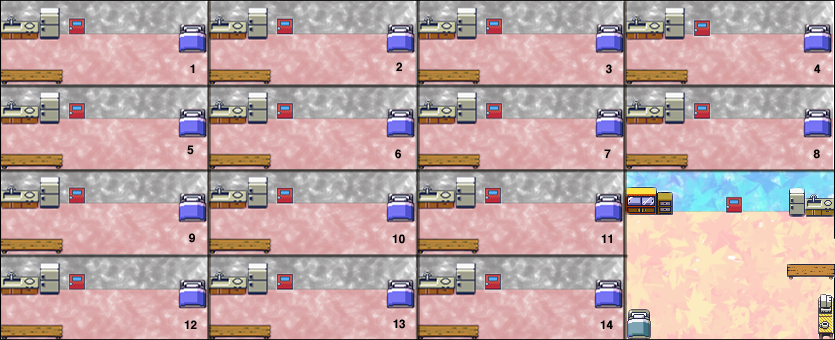
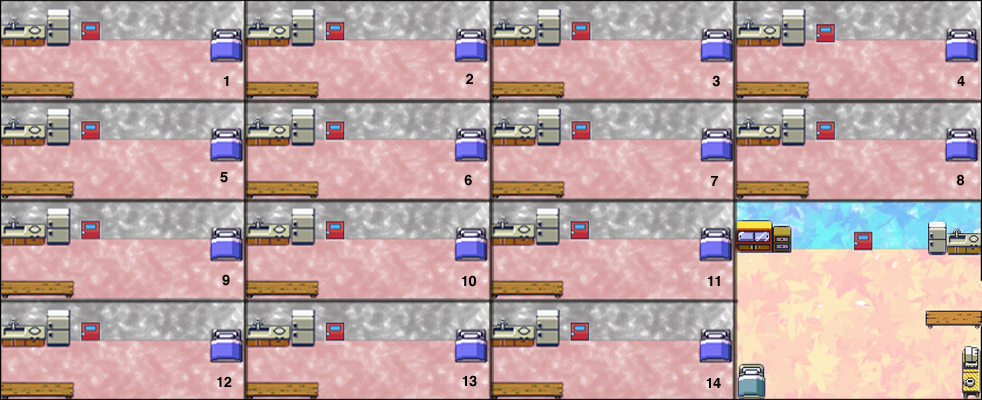
Apartment now fits micropanel

diff --git a/src/city/PersonAgent.java b/src/city/PersonAgent.java
@@ -145,13 +145,13 @@ public class PersonAgent extends Agent implements Person {
 		personGui = new PersonGui(this);
 		List<Building> buildings = Directory.sharedInstance().getCityGui().getMacroAnimationPanel().getBuildings();
 		for(Building b : buildings) {
-			if(homeName.toLowerCase().contains("apartmenta")){
+			if(homeName.toLowerCase().contains("apartmenta") || homeName.toLowerCase().contains("landlorda")) {
 				homeName = "ApartmentA";
 			}
-			else if(homeName.toLowerCase().contains("apartmentb")) {
+			else if(homeName.toLowerCase().contains("apartmentb") || homeName.toLowerCase().contains("landlordb")) {
 				homeName = "ApartmentB";
 			}
-			else if(homeName.toLowerCase().contains("apartmentc")) {
+			else if(homeName.toLowerCase().contains("apartmentc") || homeName.toLowerCase().contains("landlordc")) {
 				homeName = "ApartmentC";
 			}
 			if (b.getName() == homeName) {
@@ -252,13 +252,13 @@ public class PersonAgent extends Agent implements Person {
 		currentLocation = housingStatus;
 		List<Building> buildings = Directory.sharedInstance().getCityGui().getMacroAnimationPanel().getBuildings();
 		for(Building b : buildings) {
-			if(homeName.toLowerCase().contains("apartmenta")){
+			if(homeName.toLowerCase().contains("apartmenta") || homeName.toLowerCase().contains("landlorda")) {
 				homeName = "ApartmentA";
 			}
-			else if(homeName.toLowerCase().contains("apartmentb")) {
+			else if(homeName.toLowerCase().contains("apartmentb") || homeName.toLowerCase().contains("landlordb")) {
 				homeName = "ApartmentB";
 			}
-			else if(homeName.toLowerCase().contains("apartmentc")) {
+			else if(homeName.toLowerCase().contains("apartmentc") || homeName.toLowerCase().contains("landlordc")) {
 				homeName = "ApartmentC";
 			}
 			
@@ -459,12 +459,15 @@ public class PersonAgent extends Agent implements Person {
 	 * Scheduler.  Determine what action is called for, and do it. -------------------------------------------------------
 	 */
 	public boolean pickAndExecuteAnAction() {
-		if(currentLocation.toLowerCase().contains("apartmenta"))
+		if(currentLocation.toLowerCase().contains("apartmenta") || currentLocation.toLowerCase().contains("landlorda")) {
 			currentLocation = "ApartmentA";
-		if(currentLocation.toLowerCase().contains("apartmentb"))
+		}
+		else if(currentLocation.toLowerCase().contains("apartmentb") || currentLocation.toLowerCase().contains("landlordb")) {
 			currentLocation = "ApartmentB";
-		if(currentLocation.toLowerCase().contains("apartmentc"))
+		}
+		else if(currentLocation.toLowerCase().contains("apartmentc") || currentLocation.toLowerCase().contains("landlordc")) {
 			currentLocation = "ApartmentC";
+		}
 		
 		if (getPersonState() == PersonState.DoneWorking) {
 			leaveWork();
@@ -551,12 +554,15 @@ public class PersonAgent extends Agent implements Person {
 	 * 
 	 */
 	private boolean evaluateStatus() {
-		if(currentLocation.toLowerCase().contains("apartmenta"))
+		if(currentLocation.toLowerCase().contains("apartmenta") || currentLocation.toLowerCase().contains("landlorda")) {
 			currentLocation = "ApartmentA";
-		if(currentLocation.toLowerCase().contains("apartmentb"))
+		}
+		else if(currentLocation.toLowerCase().contains("apartmentb") || currentLocation.toLowerCase().contains("landlordb")) {
 			currentLocation = "ApartmentB";
-		if(currentLocation.toLowerCase().contains("apartmentc"))
+		}
+		else if(currentLocation.toLowerCase().contains("apartmentc") || currentLocation.toLowerCase().contains("landlordc")) {
 			currentLocation = "ApartmentC";
+		}
 		
 		//print("In Eval: Current Location = " + currentLocation + ".");
 		if (getPersonState().toString().contains("ing") || getPersonState().toString().contains("OutTo") || getPersonState().toString().contains("NeedsTo")){
@@ -637,22 +643,22 @@ public class PersonAgent extends Agent implements Person {
 		print("Action goHome - State set to InTransit. Adding new Transportation Role.");
 		setPersonState(PersonState.InTransit);
 		roles.clear();
-		if(homeName.toLowerCase().contains("apartmenta")) {
+		if(homeName.toLowerCase().contains("apartmenta") || homeName.toLowerCase().contains("landlorda")) {
 			homeName = "ApartmentA";
 		}
-		else if(homeName.toLowerCase().contains("apartmentb")) {
+		else if(homeName.toLowerCase().contains("apartmentb") || homeName.toLowerCase().contains("landlordb")) {
 			homeName = "ApartmentB";
 		}
-		else if(homeName.toLowerCase().contains("apartmentc")) {
+		else if(homeName.toLowerCase().contains("apartmentc") || homeName.toLowerCase().contains("landlordc")) {
 			homeName = "ApartmentC";
 		}
-		if(homeName.toLowerCase().contains("apartmenta")) {
+		if(currentLocation.toLowerCase().contains("apartmenta") || currentLocation.toLowerCase().contains("landlorda")) {
 			currentLocation = "ApartmentA";
 		}
-		else if(homeName.toLowerCase().contains("apartmentb")) {
+		else if(currentLocation.toLowerCase().contains("apartmentb") || currentLocation.toLowerCase().contains("landlordb")) {
 			currentLocation = "ApartmentB";
 		}
-		else if(homeName.toLowerCase().contains("apartmentc")) {
+		else if(currentLocation.toLowerCase().contains("apartmentc") || currentLocation.toLowerCase().contains("landlordc")) {
 			currentLocation = "ApartmentC";
 		}
 		
@@ -696,12 +702,15 @@ public class PersonAgent extends Agent implements Person {
 		//Decide Which restaurant to go to
 		Restaurant r = Directory.sharedInstance().getRestaurants().get(1);
 		//End of Decide block
-		if(currentLocation.toLowerCase().contains("apartmenta"))
+		if(currentLocation.toLowerCase().contains("apartmenta") || currentLocation.toLowerCase().contains("landlorda")) {
 			currentLocation = "ApartmentA";
-		if(currentLocation.toLowerCase().contains("apartmentb"))
+		}
+		else if(currentLocation.toLowerCase().contains("apartmentb") || currentLocation.toLowerCase().contains("landlordb")) {
 			currentLocation = "ApartmentB";
-		if(currentLocation.toLowerCase().contains("apartmentc"))
+		}
+		else if(currentLocation.toLowerCase().contains("apartmentc") || currentLocation.toLowerCase().contains("landlordc")) {
 			currentLocation = "ApartmentC";
+		}
 		
 		if(currentLocation == homeName) {
 			personGui.DoLeaveHouse();
@@ -758,12 +767,15 @@ public class PersonAgent extends Agent implements Person {
 		hasWorked = true;
 		setPersonState(PersonState.OutToWork);
 		
-		if(currentLocation.toLowerCase().contains("apartmenta"))
+		if(currentLocation.toLowerCase().contains("apartmenta") || currentLocation.toLowerCase().contains("landlorda")) {
 			currentLocation = "ApartmentA";
-		if(currentLocation.toLowerCase().contains("apartmentb"))
+		}
+		else if(currentLocation.toLowerCase().contains("apartmentb") || currentLocation.toLowerCase().contains("landlordb")) {
 			currentLocation = "ApartmentB";
-		if(currentLocation.toLowerCase().contains("apartmentc"))
+		}
+		else if(currentLocation.toLowerCase().contains("apartmentc") || currentLocation.toLowerCase().contains("landlordc")) {
 			currentLocation = "ApartmentC";
+		}
 		
 		if(currentLocation == homeName) {
 			personGui.DoLeaveHouse();
@@ -800,12 +812,15 @@ public class PersonAgent extends Agent implements Person {
 			print("Action goMarket - State set to OutToMarket");
 			setPersonState(PersonState.OutToMarket);
 			
-			if(currentLocation.toLowerCase().contains("apartmenta"))
+			if(currentLocation.toLowerCase().contains("apartmenta") || currentLocation.toLowerCase().contains("landlorda")) {
 				currentLocation = "ApartmentA";
-			if(currentLocation.toLowerCase().contains("apartmentb"))
+			}
+			else if(currentLocation.toLowerCase().contains("apartmentb") || currentLocation.toLowerCase().contains("landlordb")) {
 				currentLocation = "ApartmentB";
-			if(currentLocation.toLowerCase().contains("apartmentc"))
+			}
+			else if(currentLocation.toLowerCase().contains("apartmentc") || currentLocation.toLowerCase().contains("landlordc")) {
 				currentLocation = "ApartmentC";
+			}
 			
 			if(currentLocation == homeName) {
 				personGui.DoLeaveHouse();
@@ -824,12 +839,15 @@ public class PersonAgent extends Agent implements Person {
 	}
 	/** Non Norm Actions **/
 	private void goRob() {
-		if(currentLocation.toLowerCase().contains("apartmenta"))
+		if(currentLocation.toLowerCase().contains("apartmenta") || currentLocation.toLowerCase().contains("landlorda")) {
 			currentLocation = "ApartmentA";
-		if(currentLocation.toLowerCase().contains("apartmentb"))
+		}
+		else if(currentLocation.toLowerCase().contains("apartmentb") || currentLocation.toLowerCase().contains("landlordb")) {
 			currentLocation = "ApartmentB";
-		if(currentLocation.toLowerCase().contains("apartmentc"))
+		}
+		else if(currentLocation.toLowerCase().contains("apartmentc") || currentLocation.toLowerCase().contains("landlordc")) {
 			currentLocation = "ApartmentC";
+		}
 		
 		if(currentLocation == homeName) {
 			personGui.DoLeaveHouse();
@@ -858,12 +876,15 @@ public class PersonAgent extends Agent implements Person {
 			deposit = 0.0;
 		}
 		
-		if(currentLocation.toLowerCase().contains("apartmenta"))
+		if(currentLocation.toLowerCase().contains("apartmenta") || currentLocation.toLowerCase().contains("landlorda")) {
 			currentLocation = "ApartmentA";
-		if(currentLocation.toLowerCase().contains("apartmentb"))
+		}
+		else if(currentLocation.toLowerCase().contains("apartmentb") || currentLocation.toLowerCase().contains("landlordb")) {
 			currentLocation = "ApartmentB";
-		if(currentLocation.toLowerCase().contains("apartmentc"))
+		}
+		else if(currentLocation.toLowerCase().contains("apartmentc") || currentLocation.toLowerCase().contains("landlordc")) {
 			currentLocation = "ApartmentC";
+		}
 		
 		if(currentLocation == homeName) {
 			personGui.DoLeaveHouse();
@@ -884,12 +905,15 @@ public class PersonAgent extends Agent implements Person {
 		setPersonState(PersonState.OutToBank);
 	}
 	private void goLoan() {
-		if(currentLocation.toLowerCase().contains("apartmenta"))
+		if(currentLocation.toLowerCase().contains("apartmenta") || currentLocation.toLowerCase().contains("landlorda")) {
 			currentLocation = "ApartmentA";
-		if(currentLocation.toLowerCase().contains("apartmentb"))
+		}
+		else if(currentLocation.toLowerCase().contains("apartmentb") || currentLocation.toLowerCase().contains("landlordb")) {
 			currentLocation = "ApartmentB";
-		if(currentLocation.toLowerCase().contains("apartmentc"))
+		}
+		else if(currentLocation.toLowerCase().contains("apartmentc") || currentLocation.toLowerCase().contains("landlordc")) {
 			currentLocation = "ApartmentC";
+		}
 		
 		if(currentLocation == homeName) {
 			personGui.DoLeaveHouse();
@@ -912,12 +936,15 @@ public class PersonAgent extends Agent implements Person {
 	}
 	
 	private void goWithdraw() {
-		if(currentLocation.toLowerCase().contains("apartmenta"))
+		if(currentLocation.toLowerCase().contains("apartmenta") || currentLocation.toLowerCase().contains("landlorda")) {
 			currentLocation = "ApartmentA";
-		if(currentLocation.toLowerCase().contains("apartmentb"))
+		}
+		else if(currentLocation.toLowerCase().contains("apartmentb") || currentLocation.toLowerCase().contains("landlordb")) {
 			currentLocation = "ApartmentB";
-		if(currentLocation.toLowerCase().contains("apartmentc"))
+		}
+		else if(currentLocation.toLowerCase().contains("apartmentc") || currentLocation.toLowerCase().contains("landlordc")) {
 			currentLocation = "ApartmentC";
+		}
 		
 		if(currentLocation == homeName) {
 			personGui.DoLeaveHouse();

diff --git a/src/gui/SimCityGui.java b/src/gui/SimCityGui.java
@@ -11,6 +11,7 @@ import city.BusAgent;
 import city.PersonAgent;
 import city.TransportationRole;
 import city.gui.BusGui;
+import city.helpers.ApartmentHelper;
 import city.helpers.Clock;
 import city.helpers.Directory;
 import city.helpers.XMLReader;
@@ -432,28 +433,20 @@ public class SimCityGui {
                     transportationComboBox.getSelectedItem() != "None" &&
                     housingComboBox.getSelectedItem() != "None") {
 					
-					/*
 					//CREATE CONDITION WHERE IFF HOUSING COMBO BOX IS LANDLORD THEN JOB IS LAND LORD AND VICE VERSA
 					if(housingComboBox.getSelectedItem().toString().toLowerCase().contains("landlord")) {
-						String string = housingComboBox.getSelectedItem().toString();
-						String [] parts = string.split("LandLord");
-						String part2 = parts[1];
+						String apartmentLetter = ApartmentHelper.sharedInstance().getApartmentLetter(housingComboBox.getSelectedItem());
 						
-						System.out.println(housingComboBox.getSelectedItem().toString());
-						System.out.println(part2);
-						
-						
-						PersonAgent person = new PersonAgent(roles.get("home.LandLord" + part2),
+						PersonAgent person = new PersonAgent(roles.get("home.LandLord" + apartmentLetter),
                                 nameTextField.getText(),
                                 aggressivenessSlider.getValue(),
                                 (double)initialFundsSlider.getValue(),
                                 (String)housingComboBox.getSelectedItem(),
                                 (String)transportationComboBox.getSelectedItem());
+						
+						housingComboBox.removeItemAt(housingComboBox.getSelectedIndex());
 					}
 					else {
-					*/
-					//housingComboBox.removeItemAt(housingComboBox.getSelectedIndex());
-					
 						PersonAgent person = new PersonAgent(roles.get(occupationComboBox.getSelectedItem()),
                                 nameTextField.getText(),
                                 aggressivenessSlider.getValue(),
@@ -463,7 +456,7 @@ public class SimCityGui {
 						
 						
 						housingComboBox.removeItemAt(housingComboBox.getSelectedIndex());
-					//}
+					}
 						
 				}
 			}

diff --git a/src/city/gui/PersonGui.java b/src/city/gui/PersonGui.java
@@ -39,8 +39,8 @@ public class PersonGui implements Gui {
 		String address = agent.getAddress();
 		
 		apartmentLetter = ApartmentHelper.sharedInstance().getApartmentLetter(address);
-		xMult = ApartmentHelper.sharedInstance().getXMultiplier(address) * 212;
-		yMult = ApartmentHelper.sharedInstance().getYMultiplier(address) * 96;
+		xMult = ApartmentHelper.sharedInstance().getXMultiplier(address) * 245;
+		yMult = ApartmentHelper.sharedInstance().getYMultiplier(address) * 103;
 		
 		//HOME
 		if(address.toLowerCase().contains("house")) {
@@ -70,16 +70,39 @@ public class PersonGui implements Gui {
 	        }
 		}
 		//APARTMENT
-		else if(address.toLowerCase().contains("apartment")) {
+		else if(address.toLowerCase().contains("apartment")) {		
+			xBed = 219 + xMult;
+			yBed = 35 + yMult;
+			xKitchen = 14 + xMult;
+			yKitchen = 25 + yMult;
+			xTable = 23 + xMult;
+			yTable = 74 + yMult;
+			xDoor = 87 + xMult;
+			yDoor = 26 + yMult;
+			xPos = xBed;
+			yPos = yBed;
+			xDestination = xBed;
+			yDestination = yBed;
 			
-			xBed = 184 + xMult;
-			yBed = 29 + yMult;
-			xKitchen = 9 + xMult;
-			yKitchen = 29 + yMult;
-			xTable = 17 + xMult;
-			yTable = 61 + yMult;
-			xDoor = 72 + xMult;
-			yDoor = 22 + yMult;
+			try {
+	        	personLeft = ImageIO.read(getClass().getResource("GUICITYPersonLeft.png"));
+	        	personRight = ImageIO.read(getClass().getResource("GUICITYPersonRight.png"));
+	        	personDown = ImageIO.read(getClass().getResource("GUICITYPersonDown.png"));
+	        	personUp = ImageIO.read(getClass().getResource("GUICITYPersonUp.png"));
+	        }
+	        catch(IOException e) {
+	        	System.out.println("Error w/ Person assets");
+	        }
+		}
+		else if(address.toLowerCase().contains("landlord")) {
+			xBed = 632;
+			yBed = 314;
+			xKitchen = 817;
+			yKitchen = 208;
+			xTable = 808;
+			yTable = 252;;
+			xDoor = 729;
+			yDoor = 199;
 			xPos = xBed;
 			yPos = yBed;
 			xDestination = xBed;
@@ -98,6 +121,7 @@ public class PersonGui implements Gui {
 
 		this.agent = agent;
 	}
+
 	
 	@Override
 	public void updatePosition() {
